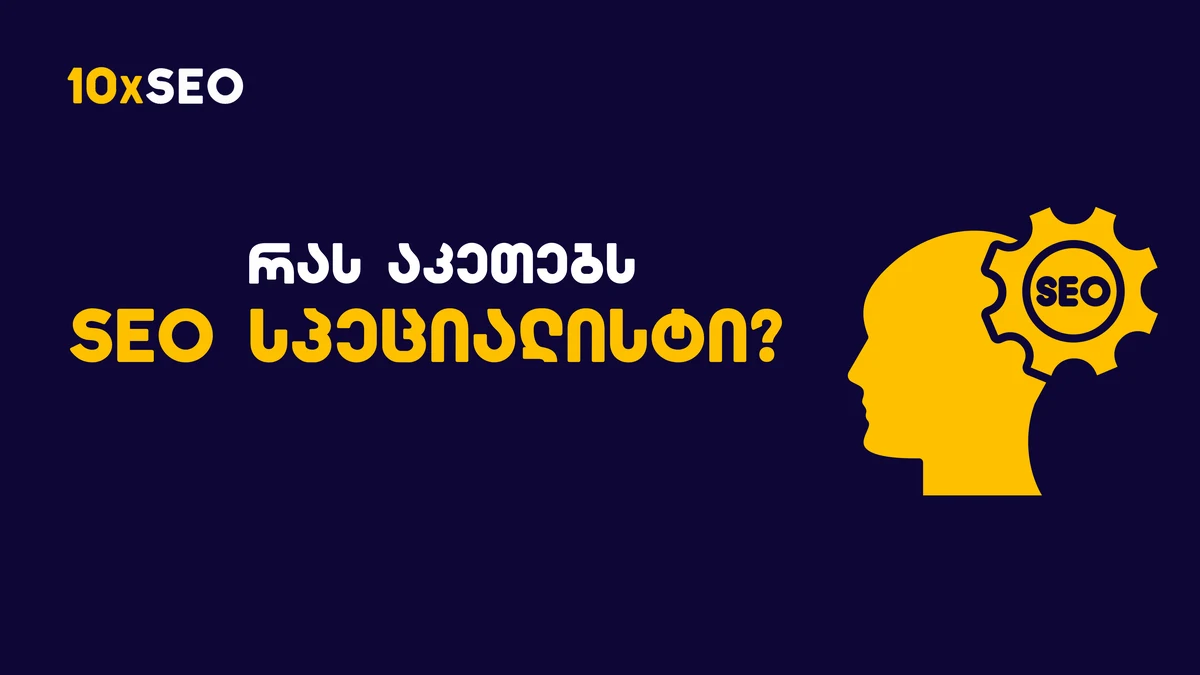
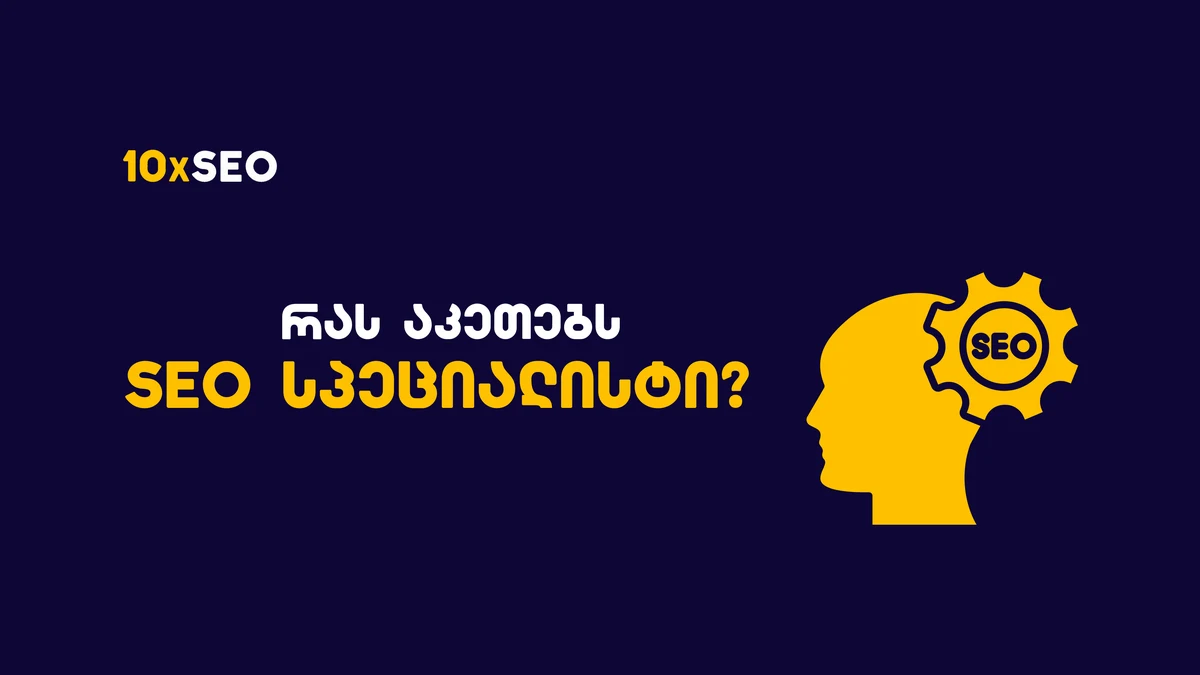
seo-specialist covers: center the design with even left/right margins
The blog.html grid crops covers to 16:10, so the 16:9 cover lost 60px per
side: the 10xSEO logo touched the left edge and the head illustration was
clipped on the right. Rebuilt KA + EN covers from the 6000px originals with
the design scaled to 960px and centered (120px L/R, ~147px T/B), so the card
crop now leaves an even 60px on both sides. Same design, no content change.
Cache-busted every reference (KA ?v=2, EN ?v=3) because Cloudflare holds
.webp for a year.

Changed region(s): [[0.0617, 0.3111, 0.9867, 0.7778], [0.0308, 0.0933, 0.2158, 0.1556], [0.0925, 0.2178, 0.2467, 0.28]]

diff --git a/blog/seo-specialist.html b/blog/seo-specialist.html
@@ -8,7 +8,7 @@
 <link rel="icon" type="image/x-icon" href="/favicon.ico">
 <link rel="icon" type="image/png" sizes="32x32" href="/favicon-32x32.png">
 <link rel="apple-touch-icon" sizes="180x180" href="/apple-touch-icon.png">
-<link rel="preload" as="image" href="../images/blog/seo-specialist.webp" fetchpriority="high">
+<link rel="preload" as="image" href="../images/blog/seo-specialist.webp?v=2" fetchpriority="high">
   <title>ვინ არის SEO სპეციალისტი და რატომ სჭირდება ის ბიზნესს?</title>
 <link rel="alternate" hreflang="ka" href="https://10xseo.ge/blog/seo-specialist.html">
 <link rel="alternate" hreflang="en" href="https://10xseo.ge/en/blog/seo-specialist.html">
@@ -101,12 +101,12 @@
   </style>
 
   <link rel="canonical" href="https://10xseo.ge/blog/seo-specialist.html">
-  <meta property="og:image" content="https://10xseo.ge/images/blog/seo-specialist.webp">
+  <meta property="og:image" content="https://10xseo.ge/images/blog/seo-specialist.webp?v=2">
   <meta property="og:image:width" content="1200">
   <meta property="og:image:height" content="675">
   <meta property="og:image:type" content="image/webp">
   <meta property="og:image:alt" content="ვინ არის SEO სპეციალისტი? ყველაფერი, რაც ამ პროფესიის შესახებ უნდა იცოდე">
-  <meta name="twitter:image" content="https://10xseo.ge/images/blog/seo-specialist.webp">
+  <meta name="twitter:image" content="https://10xseo.ge/images/blog/seo-specialist.webp?v=2">
   <meta name="twitter:image:alt" content="ვინ არის SEO სპეციალისტი? ყველაფერი, რაც ამ პროფესიის შესახებ უნდა იცოდე">
   <meta property="og:type" content="article">
   <meta property="og:title" content="ვინ არის SEO სპეციალისტი და რატომ სჭირდება ის ბიზნესს?">
@@ -122,7 +122,7 @@
   "@type": "Article",
   "headline": "ვინ არის SEO სპეციალისტი? ყველაფერი, რაც ამ პროფესიის შესახებ უნდა იცოდე",
   "description": "როგორია SEO სპეციალისტის სამუშაო პროცესი, რომელ ინსტრუმენტებს იყენებს და როგორ შეიძლება ამ პროფესიაში კარიერის დაწყება.",
-  "image": "https://10xseo.ge/images/blog/seo-specialist.webp",
+  "image": "https://10xseo.ge/images/blog/seo-specialist.webp?v=2",
   "url": "https://10xseo.ge/blog/seo-specialist.html",
   "author": {
     "@type": "Organization",
@@ -310,7 +310,7 @@
 
           <!-- Featured Image -->
           <div class="mb-8 rounded-2xl overflow-hidden">
-            <img src="../images/blog/seo-specialist.webp" alt="ვინ არის SEO სპეციალისტი? ყველაფერი, რაც ამ პროფესიის შესახებ უნდა იცოდე" class="w-full h-auto" fetchpriority="high" width="1200" height="675">
+            <img src="../images/blog/seo-specialist.webp?v=2" alt="ვინ არის SEO სპეციალისტი? ყველაფერი, რაც ამ პროფესიის შესახებ უნდა იცოდე" class="w-full h-auto" fetchpriority="high" width="1200" height="675">
           </div>
           <!-- Article Body -->
           <div class="prose text-body dark:text-body-dark">

diff --git a/en/blog/seo-specialist.html b/en/blog/seo-specialist.html
@@ -8,7 +8,7 @@
 <link rel="icon" type="image/x-icon" href="/favicon.ico">
 <link rel="icon" type="image/png" sizes="32x32" href="/favicon-32x32.png">
 <link rel="apple-touch-icon" sizes="180x180" href="/apple-touch-icon.png">
-<link rel="preload" as="image" href="../../images/blog/seo-specialist-en.webp?v=2" fetchpriority="high">
+<link rel="preload" as="image" href="../../images/blog/seo-specialist-en.webp?v=3" fetchpriority="high">
   <title>What Does an SEO Specialist Do? A Complete Guide</title>
 <link rel="alternate" hreflang="ka" href="https://10xseo.ge/blog/seo-specialist.html">
 <link rel="alternate" hreflang="en" href="https://10xseo.ge/en/blog/seo-specialist.html">
@@ -101,12 +101,12 @@
   </style>
 
   <link rel="canonical" href="https://10xseo.ge/en/blog/seo-specialist.html">
-  <meta property="og:image" content="https://10xseo.ge/images/blog/seo-specialist-en.webp?v=2">
+  <meta property="og:image" content="https://10xseo.ge/images/blog/seo-specialist-en.webp?v=3">
   <meta property="og:image:width" content="1200">
   <meta property="og:image:height" content="675">
   <meta property="og:image:type" content="image/webp">
   <meta property="og:image:alt" content="What Does an SEO Specialist Do? A Complete Guide">
-  <meta name="twitter:image" content="https://10xseo.ge/images/blog/seo-specialist-en.webp?v=2">
+  <meta name="twitter:image" content="https://10xseo.ge/images/blog/seo-specialist-en.webp?v=3">
   <meta name="twitter:image:alt" content="What Does an SEO Specialist Do? A Complete Guide">
   <meta property="og:type" content="article">
   <meta property="og:title" content="What Does an SEO Specialist Do? A Complete Guide">
@@ -122,7 +122,7 @@
   "@type": "Article",
   "headline": "What Does an SEO Specialist Do? A Complete Guide",
   "description": "Discover what an SEO specialist actually does day-to-day. Learn about the essential tools, key responsibilities, and the skills needed to succeed in SEO.",
-  "image": "https://10xseo.ge/images/blog/seo-specialist-en.webp?v=2",
+  "image": "https://10xseo.ge/images/blog/seo-specialist-en.webp?v=3",
   "url": "https://10xseo.ge/en/blog/seo-specialist.html",
   "author": {
     "@type": "Organization",
@@ -316,7 +316,7 @@ Call Us
 
           <!-- Featured Image -->
           <div class="mb-8 rounded-2xl overflow-hidden">
-            <img src="../../images/blog/seo-specialist-en.webp?v=2" alt="What Does an SEO Specialist Do? A Complete Guide" class="w-full h-auto" fetchpriority="high" width="1200" height="675">
+            <img src="../../images/blog/seo-specialist-en.webp?v=3" alt="What Does an SEO Specialist Do? A Complete Guide" class="w-full h-auto" fetchpriority="high" width="1200" height="675">
           </div>
           <!-- Article Body -->
           <div class="prose text-body dark:text-body-dark">

diff --git a/index.html b/index.html
@@ -1593,7 +1593,7 @@ SEO & AI <span class="bg-gradient-to-r from-primary to-accent bg-clip-text text-
 <div class="grid md:grid-cols-3 gap-6 lg:gap-8">
 <a href="blog/seo-specialist.html" class="group bg-white dark:bg-surface-dark rounded-2xl border border-gray-100 dark:border-gray-800 overflow-hidden hover:shadow-lg transition-shadow">
 <div class="aspect-[16/9] overflow-hidden">
-<img src="images/blog/seo-specialist.webp" alt="ვინ არის SEO სპეციალისტი? ყველაფერი, რაც ამ პროფესიის შესახებ უნდა იცოდე" loading="lazy" decoding="async" class="w-full h-full object-cover group-hover:scale-105 transition-transform duration-300" onerror="this.parentElement.classList.add('bg-gradient-to-br','from-primary/10','to-accent/10','dark:from-primary/20','dark:to-accent/20','flex','items-center','justify-center');this.style.display='none'" width="1200" height="630">
+<img src="images/blog/seo-specialist.webp?v=2" alt="ვინ არის SEO სპეციალისტი? ყველაფერი, რაც ამ პროფესიის შესახებ უნდა იცოდე" loading="lazy" decoding="async" class="w-full h-full object-cover group-hover:scale-105 transition-transform duration-300" onerror="this.parentElement.classList.add('bg-gradient-to-br','from-primary/10','to-accent/10','dark:from-primary/20','dark:to-accent/20','flex','items-center','justify-center');this.style.display='none'" width="1200" height="630">
 </div>
 <div class="p-5 lg:p-6">
 <div class="flex items-center gap-3 text-xs text-body/60 dark:text-body-dark/80 mb-3">

diff --git a/blog.html b/blog.html
@@ -373,7 +373,7 @@
             <article class="blog-post-item" data-category="seo" data-title="ვინ არის SEO სპეციალისტი? ყველაფერი, რაც ამ პროფესიის შესახებ უნდა იცოდე">
               <a href="blog/seo-specialist.html" class="blog-card group block bg-white dark:bg-surface-dark-alt rounded-2xl overflow-hidden border border-gray-100 dark:border-white/5 h-full">
                 <div class="aspect-[16/10] bg-gradient-to-br from-yellow-500/20 to-primary/10 dark:from-yellow-500/20 dark:to-primary/10 flex items-center justify-center overflow-hidden">
-                  <img src="images/blog/seo-specialist.webp" alt="ვინ არის SEO სპეციალისტი? ყველაფერი, რაც ამ პროფესიის შესახებ უნდა იცოდე" class="w-full h-full object-cover" onerror="this.style.display='none'" width="1200" height="630" loading="lazy" decoding="async">
+                  <img src="images/blog/seo-specialist.webp?v=2" alt="ვინ არის SEO სპეციალისტი? ყველაფერი, რაც ამ პროფესიის შესახებ უნდა იცოდე" class="w-full h-full object-cover" onerror="this.style.display='none'" width="1200" height="630" loading="lazy" decoding="async">
                 </div>
                 <div class="p-5">
                   <span class="text-xs font-medium text-yellow-500">SEO</span>

diff --git a/en/index.html b/en/index.html
@@ -1567,7 +1567,7 @@ Book Consultation
 <div class="grid md:grid-cols-3 gap-6 lg:gap-8">
 <a href="blog/seo-specialist.html" class="group bg-white dark:bg-surface-dark rounded-2xl border border-gray-100 dark:border-gray-800 overflow-hidden hover:shadow-lg transition-shadow">
 <div class="aspect-[16/9] overflow-hidden">
-<img src="../images/blog/seo-specialist-en.webp?v=2" alt="What Does an SEO Specialist Do? A Complete Guide" loading="lazy" decoding="async" class="w-full h-full object-cover group-hover:scale-105 transition-transform duration-300" onerror="this.parentElement.classList.add('bg-gradient-to-br','from-primary/10','to-accent/10','dark:from-primary/20','dark:to-accent/20','flex','items-center','justify-center');this.style.display='none'" width="1200" height="630">
+<img src="../images/blog/seo-specialist-en.webp?v=3" alt="What Does an SEO Specialist Do? A Complete Guide" loading="lazy" decoding="async" class="w-full h-full object-cover group-hover:scale-105 transition-transform duration-300" onerror="this.parentElement.classList.add('bg-gradient-to-br','from-primary/10','to-accent/10','dark:from-primary/20','dark:to-accent/20','flex','items-center','justify-center');this.style.display='none'" width="1200" height="630">
 </div>
 <div class="p-5 lg:p-6">
 <div class="flex items-center gap-3 text-xs text-body/60 dark:text-body-dark/80 mb-3">

diff --git a/en/blog.html b/en/blog.html
@@ -1004,7 +1004,7 @@ Call Us
           <!-- Post: What Does an SEO Specialist Do? A Complete Guide -->
           <a href="blog/seo-specialist.html" class="blog-card group block bg-white dark:bg-surface-dark-alt rounded-2xl overflow-hidden border border-gray-100 dark:border-white/5 h-full transition-all duration-300 hover:shadow-xl">
             <div class="aspect-[16/9] overflow-hidden">
-              <img src="../images/blog/seo-specialist-en.webp?v=2" alt="What Does an SEO Specialist Do? A Complete Guide" loading="lazy" decoding="async" class="w-full h-full object-cover group-hover:scale-105 transition-transform duration-300" width="1200" height="630">
+              <img src="../images/blog/seo-specialist-en.webp?v=3" alt="What Does an SEO Specialist Do? A Complete Guide" loading="lazy" decoding="async" class="w-full h-full object-cover group-hover:scale-105 transition-transform duration-300" width="1200" height="630">
             </div>
             <div class="p-6 lg:p-8">
               <div class="flex items-center gap-2 mb-4">
